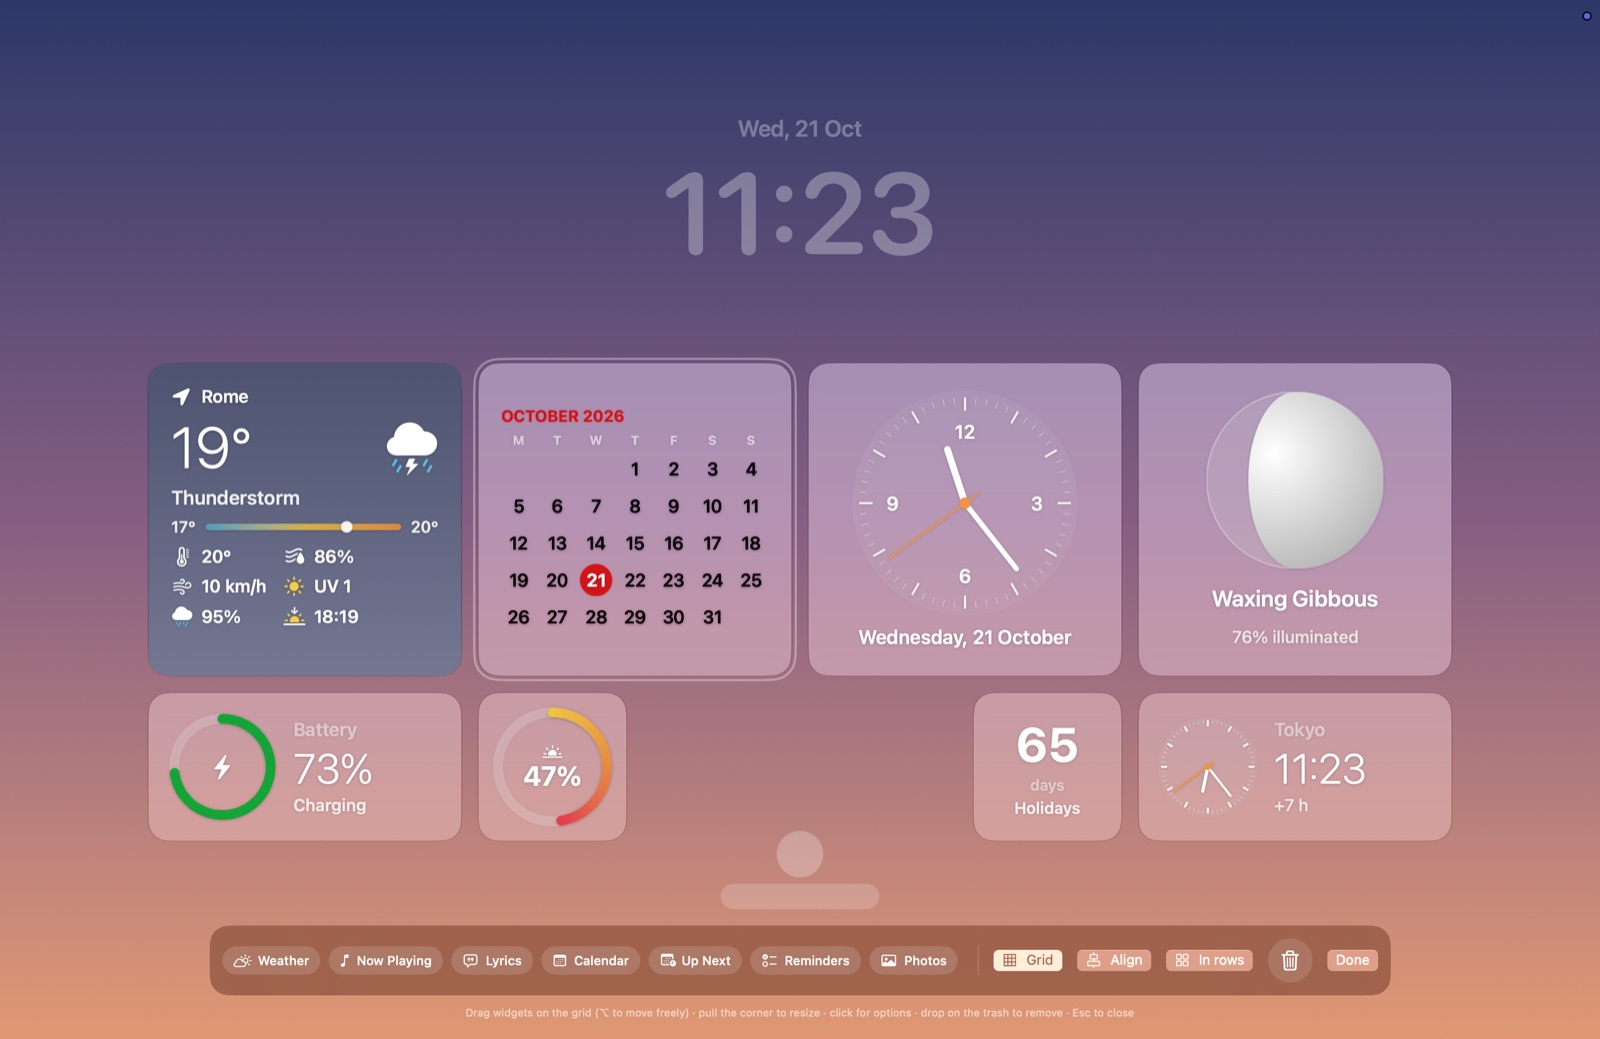
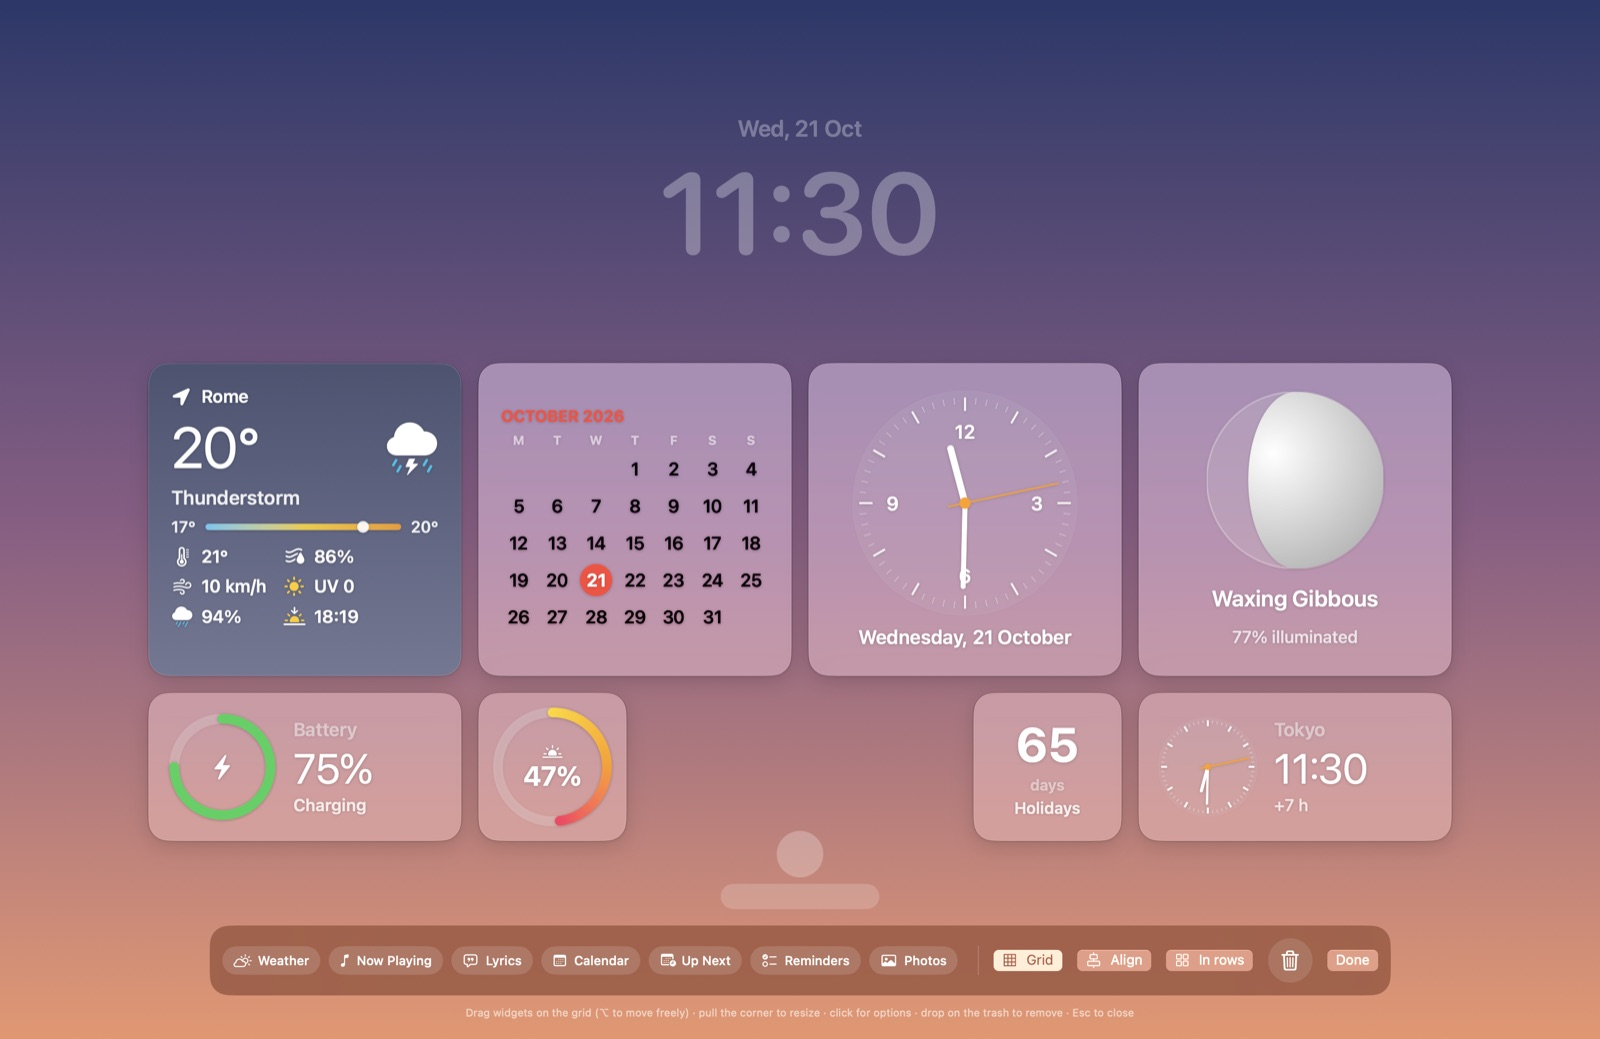
Dettagli macOS dalle skill macos-design e apple-design
Bordo da 0,5 pt e ombre a strati sui widget, colori di sistema Apple
(varianti scure), numeri grandi in peso regular con tracking negativo,
riquadri solidi con Riduci trasparenza, molle senza rimbalzo nello
studio e niente ingrandimento con Riduci movimento.

diff --git a/Sources/Bacheca/Widgets.swift b/Sources/Bacheca/Widgets.swift
@@ -68,6 +68,27 @@ struct PreviewBackdrop: View {
 
 // MARK: - Card chrome
 
+/// Apple system colors, dark-appearance variants.
+enum SystemColor {
+    static let green = Color(red: 0x30 / 255, green: 0xD1 / 255, blue: 0x58 / 255)
+    static let red = Color(red: 0xFF / 255, green: 0x45 / 255, blue: 0x3A / 255)
+    static let orange = Color(red: 0xFF / 255, green: 0x9F / 255, blue: 0x0A / 255)
+    static let yellow = Color(red: 0xFF / 255, green: 0xD6 / 255, blue: 0x0A / 255)
+    static let pink = Color(red: 0xFF / 255, green: 0x37 / 255, blue: 0x5F / 255)
+    static let teal = Color(red: 0x64 / 255, green: 0xD2 / 255, blue: 0xFF / 255)
+}
+
+/// The macOS edge: a 0.5 pt hairline instead of a visible border, and soft layered shadows.
+private struct MacEdge: ViewModifier {
+    let shape: RoundedRectangle
+    func body(content: Content) -> some View {
+        content
+            .overlay(shape.strokeBorder(.white.opacity(0.22), lineWidth: 0.5))
+            .shadow(color: .black.opacity(0.08), radius: 1, y: 1)
+            .shadow(color: .black.opacity(0.14), radius: 10, y: 5)
+    }
+}
+
 struct WidgetCard: View {
     let item: WidgetItem
     @EnvironmentObject var store: ConfigStore
@@ -141,13 +162,12 @@ private struct CardChrome: ViewModifier {
                     LinearGradient(colors: [item.color.color.opacity(0.92), item.color.color],
                                    startPoint: .topLeading, endPoint: .bottomTrailing),
                     in: shape)
-                .overlay(shape.strokeBorder(.white.opacity(0.2), lineWidth: 1))
-                .shadow(color: .black.opacity(0.25), radius: 8, y: 3)
+                .modifier(MacEdge(shape: shape))
         } else if item.hasRetro && item.backdrop == .color {
             content
                 .clipShape(shape)
                 .background(item.backdropColor.color, in: shape)
-                .overlay(shape.strokeBorder(.white.opacity(0.15), lineWidth: 1))
+                .modifier(MacEdge(shape: shape))
         } else if item.hasRetro, item.backdrop == .wallpaper || item.backdrop == .image {
             content
                 .background {
@@ -160,8 +180,7 @@ private struct CardChrome: ViewModifier {
                     }
                 }
                 .clipShape(shape)
-                .overlay(shape.strokeBorder(.white.opacity(0.22), lineWidth: 1))
-                .shadow(color: .black.opacity(0.25), radius: 8, y: 3)
+                .modifier(MacEdge(shape: shape))
         } else {
             content
                 .background {
@@ -171,6 +190,7 @@ private struct CardChrome: ViewModifier {
                 }
                 .clipShape(shape)
                 .modifier(CardBackground(style: style, accent: accent, shape: shape))
+                .modifier(MacEdge(shape: shape))
         }
     }
 }
@@ -179,8 +199,18 @@ private struct CardBackground: ViewModifier {
     let style: CardStyle
     let accent: Color
     let shape: RoundedRectangle
+    @Environment(\.accessibilityReduceTransparency) private var reduceTransparency
 
     func body(content: Content) -> some View {
+        if reduceTransparency && (style == .glass || style == .tinted) {
+            content.background(style == .tinted ? accent.opacity(0.85) : Color(white: 0.17), in: shape)
+        } else {
+            styled(content)
+        }
+    }
+
+    @ViewBuilder
+    private func styled(_ content: Content) -> some View {
         switch style {
         case .glass:
             // A light dark wash under the glass keeps white text legible on bright wallpapers.
@@ -198,7 +228,6 @@ private struct CardBackground: ViewModifier {
             content
                 .background(accent.opacity(0.5), in: shape)
                 .background(.ultraThinMaterial, in: shape)
-                .overlay(shape.strokeBorder(.white.opacity(0.18), lineWidth: 1))
         case .dark:
             content.background(Color.black.opacity(0.45), in: shape)
         case .light:
@@ -267,7 +296,7 @@ private struct WidgetContent: View {
                 Gauge(size: sz, m: m, progress: level, symbol: battery.charging ? "bolt.fill" : "battery.100",
                       value: "\(Int((level * 100).rounded()))%", label: tr("Batteria", "Battery"),
                       detail: battery.charging ? tr("In carica", "Charging") : level < 0.2 ? tr("Batteria scarica", "Low battery") : tr("Con batteria", "On battery"),
-                      tint: AnyShapeStyle(level < 0.2 && !battery.charging ? Color.red : Color.green))
+                      tint: AnyShapeStyle(level < 0.2 && !battery.charging ? SystemColor.red : SystemColor.green))
             } else {
                 Gauge(size: sz, m: m, progress: 1, symbol: "powerplug.fill", value: "—", label: tr("Batteria", "Battery"), detail: tr("Alimentato dalla rete", "On power adapter"))
             }
@@ -276,7 +305,7 @@ private struct WidgetContent: View {
             let left = Int((1 - p) * 24 * 60)
             Gauge(size: sz, m: m, progress: p, symbol: "sun.horizon.fill", value: "\(Int(p * 100))%", label: tr("Giornata", "Day"),
                   detail: tr("Mancano \(left / 60) h \(left % 60) min", "\(left / 60) h \(left % 60) min left"),
-                  tint: AnyShapeStyle(AngularGradient(colors: [.yellow, .orange, .pink], center: .center,
+                  tint: AnyShapeStyle(AngularGradient(colors: [SystemColor.yellow, SystemColor.orange, SystemColor.pink], center: .center,
                                                       startAngle: .degrees(0), endAngle: .degrees(360 * max(0.05, p)))))
         case .moon:
             MoonWidget(size: sz, m: m, now: now)
@@ -305,7 +334,7 @@ private struct WeatherWidget: View {
             case .small:
                 VStack(alignment: .leading, spacing: 2 * s) {
                     cityLabel
-                    Text("\(Int(w.temperature.rounded()))°").font(.system(size: 30 * s, weight: .light))
+                    Text("\(Int(w.temperature.rounded()))°").font(.system(size: 30 * s, weight: .regular)).tracking(-0.02 * 30 * s)
                     Spacer(minLength: 0)
                     Image(systemName: w.symbol).symbolRenderingMode(.multicolor).font(.system(size: 14 * s))
                     Text(highLow(w)).font(.system(size: 10 * s, weight: .semibold)).lineLimit(1).minimumScaleFactor(0.8)
@@ -316,7 +345,7 @@ private struct WeatherWidget: View {
                 HStack {
                     VStack(alignment: .leading, spacing: 2 * s) {
                         cityLabel
-                        Text("\(Int(w.temperature.rounded()))°").font(.system(size: 32 * s, weight: .light))
+                        Text("\(Int(w.temperature.rounded()))°").font(.system(size: 32 * s, weight: .regular)).tracking(-0.02 * 32 * s)
                         Text(w.label).font(.system(size: 10.5 * s, weight: .semibold)).lineLimit(1)
                         Text(highLow(w)).font(.system(size: 10.5 * s, weight: .semibold)).foregroundStyle(.secondary).lineLimit(1)
                     }
@@ -372,7 +401,7 @@ private struct WeatherWidget: View {
         VStack(alignment: .leading, spacing: 3 * m.s) {
             cityLabel
             HStack(alignment: .top) {
-                Text("\(Int(w.temperature.rounded()))°").font(.system(size: temp * m.s, weight: .light))
+                Text("\(Int(w.temperature.rounded()))°").font(.system(size: temp * m.s, weight: .regular)).tracking(-0.02 * temp * m.s)
                 Spacer(minLength: 0)
                 Image(systemName: w.symbol).symbolRenderingMode(.multicolor).font(.system(size: 28 * m.s)).padding(.top, 4 * m.s)
             }
@@ -427,7 +456,7 @@ private struct TempRange: View {
             GeometryReader { geo in
                 let p = max > min ? (current - min) / (max - min) : 0.5
                 ZStack(alignment: .leading) {
-                    Capsule().fill(LinearGradient(colors: [.cyan.opacity(0.9), .yellow.opacity(0.9), .orange], startPoint: .leading, endPoint: .trailing))
+                    Capsule().fill(LinearGradient(colors: [SystemColor.teal, SystemColor.yellow, SystemColor.orange], startPoint: .leading, endPoint: .trailing))
                         .frame(height: 4 * s)
                     Circle().fill(.white).frame(width: 7 * s, height: 7 * s)
                         .offset(x: (geo.size.width - 7 * s) * Swift.min(1, Swift.max(0, p)))
@@ -477,7 +506,7 @@ private struct CalendarWidget: View {
         case .small:
             VStack(alignment: .leading, spacing: 0) {
                 weekday
-                Text(now, format: .dateTime.day()).font(.system(size: 40 * s, weight: .light))
+                Text(now, format: .dateTime.day()).font(.system(size: 40 * s, weight: .regular)).tracking(-0.02 * 40 * s)
                 Spacer(minLength: 0)
                 Text(events.first.map { "\($0.start.formatted(hm)) \($0.title)" } ?? tr("Nessun evento", "No events"))
                     .font(.system(size: 10 * s, weight: .semibold)).lineLimit(2).opacity(0.8)
@@ -488,8 +517,8 @@ private struct CalendarWidget: View {
             HStack(spacing: 8 * s) {
                 VStack(alignment: .leading, spacing: 0) {
                     Text(now, format: .dateTime.weekday(.abbreviated)).textCase(.uppercase)
-                        .font(.system(size: 10 * s, weight: .bold)).foregroundStyle(.red)
-                    Text(now, format: .dateTime.day()).font(.system(size: 34 * s, weight: .light))
+                        .font(.system(size: 10 * s, weight: .bold)).foregroundStyle(SystemColor.red)
+                    Text(now, format: .dateTime.day()).font(.system(size: 34 * s, weight: .regular)).tracking(-0.02 * 34 * s)
                         .lineLimit(1).minimumScaleFactor(0.6)
                 }
                 .fixedSize()
@@ -502,7 +531,7 @@ private struct CalendarWidget: View {
             HStack(alignment: .top, spacing: 16 * s) {
                 VStack(alignment: .leading, spacing: 0) {
                     weekday
-                    Text(now, format: .dateTime.day()).font(.system(size: 54 * s, weight: .light))
+                    Text(now, format: .dateTime.day()).font(.system(size: 54 * s, weight: .regular)).tracking(-0.02 * 54 * s)
                     Text(now, format: .dateTime.month(.wide).year()).font(.system(size: 11 * s, weight: .semibold)).opacity(0.75)
                     Spacer(minLength: 0)
                     if let e = events.first {
@@ -519,7 +548,7 @@ private struct CalendarWidget: View {
 
     private var weekday: some View {
         Text(now, format: .dateTime.weekday(.wide)).textCase(.uppercase)
-            .font(.system(size: 10 * m.s, weight: .bold)).foregroundStyle(.red)
+            .font(.system(size: 10 * m.s, weight: .bold)).foregroundStyle(SystemColor.red)
     }
 }
 
@@ -538,7 +567,7 @@ private struct WeekStrip: View {
                     Text("\(cal.component(.day, from: pair.1))")
                         .font(.system(size: 10 * s, weight: today ? .bold : .medium))
                         .frame(width: 16 * s, height: 16 * s)
-                        .background(today ? Circle().fill(.red) : nil)
+                        .background(today ? Circle().fill(SystemColor.red) : nil)
                         .foregroundStyle(today ? .white : .primary)
                 }
             }
@@ -563,7 +592,7 @@ private struct MonthGrid: View {
 
         VStack(alignment: .leading, spacing: 4 * s) {
             Text(now, format: .dateTime.month(.wide).year())
-                .font(.system(size: 10 * s, weight: .bold)).textCase(.uppercase).foregroundStyle(.red)
+                .font(.system(size: 10 * s, weight: .bold)).textCase(.uppercase).foregroundStyle(SystemColor.red)
             LazyVGrid(columns: columns, spacing: 3 * s) {
                 ForEach(Array(weekdayInitials(cal).enumerated()), id: \.offset) { _, d in
                     Text(d).font(.system(size: 8 * s, weight: .bold)).opacity(0.55)
@@ -573,7 +602,7 @@ private struct MonthGrid: View {
                         Text("\(day)")
                             .font(.system(size: cell * 0.56 * s, weight: day == today ? .bold : .medium))
                             .frame(width: cell * s, height: cell * s)
-                            .background(day == today ? Circle().fill(.red) : nil)
+                            .background(day == today ? Circle().fill(SystemColor.red) : nil)
                             .foregroundStyle(day == today ? .white : .primary)
                     } else {
                         Color.clear.frame(height: cell * s)
@@ -602,7 +631,7 @@ private struct EventsWidget: View {
                 Text(tr("Niente in agenda", "Nothing scheduled")).font(.system(size: 14 * s, weight: .bold))
             } else if size == .small {
                 let e = events[0]
-                Text(e.start.formatted(hm)).font(.system(size: 22 * s, weight: .light))
+                Text(e.start.formatted(hm)).font(.system(size: 22 * s, weight: .regular)).tracking(-0.02 * 22 * s)
                 Text(e.title).font(.system(size: 13 * s, weight: .bold)).lineLimit(3)
             } else {
                 let limit = size == .medium ? 1 : 3
@@ -610,7 +639,7 @@ private struct EventsWidget: View {
                 LazyVGrid(columns: Array(repeating: GridItem(.flexible(), alignment: .topLeading), count: columns), alignment: .leading, spacing: 8 * s) {
                     ForEach(Array(events.prefix(limit).enumerated()), id: \.offset) { _, e in
                         HStack(alignment: .top, spacing: 7 * s) {
-                            Capsule().fill(.red).frame(width: 3 * s)
+                            Capsule().fill(SystemColor.red).frame(width: 3 * s)
                             VStack(alignment: .leading, spacing: 1) {
                                 Text(e.title).font(.system(size: 13.5 * s, weight: .bold)).lineLimit(1)
                                 Text(eventTime(e)).font(.system(size: 10.5 * s, weight: .medium)).opacity(0.75).lineLimit(1)
@@ -642,7 +671,7 @@ private struct RemindersWidget: View {
             VStack(alignment: .leading, spacing: 2 * s) {
                 Image(systemName: "checklist").font(.system(size: 16 * s, weight: .semibold))
                 Spacer(minLength: 0)
-                Text(access ? "\(reminders.count)" : "—").font(.system(size: 30 * s, weight: .light))
+                Text(access ? "\(reminders.count)" : "—").font(.system(size: 30 * s, weight: .regular)).tracking(-0.02 * 30 * s)
                 Text(access ? (reminders.first?.title ?? tr("Tutto fatto", "All done")) : tr("Consenti l'accesso", "Allow access"))
                     .font(.system(size: 10.5 * s, weight: .semibold)).lineLimit(2).opacity(0.85)
             }
@@ -665,7 +694,7 @@ private struct RemindersWidget: View {
                                 Image(systemName: "circle").font(.system(size: 9 * s, weight: .bold)).opacity(0.7)
                                 Text(r.title).lineLimit(1)
                                 if let due = r.due, due < now {
-                                    Image(systemName: "exclamationmark").font(.system(size: 9 * s, weight: .heavy)).foregroundStyle(.orange)
+                                    Image(systemName: "exclamationmark").font(.system(size: 9 * s, weight: .heavy)).foregroundStyle(SystemColor.orange)
                                 }
                             }
                             .font(.system(size: 12.5 * s, weight: .semibold))
@@ -721,7 +750,7 @@ private struct Gauge: View {
                 .frame(width: 60 * s, height: 60 * s)
                 VStack(alignment: .leading, spacing: 2 * s) {
                     Text(label).font(.system(size: 11.5 * s, weight: .semibold)).foregroundStyle(.secondary)
-                    Text(value).font(.system(size: (size == .wide ? 40 : 26) * s, weight: .light))
+                    Text(value).font(.system(size: (size == .wide ? 40 : 26) * s, weight: .regular)).tracking(-0.02 * (size == .wide ? 40 : 26) * s)
                     Text(detail).font(.system(size: 10.5 * s, weight: .semibold)).opacity(0.8).lineLimit(1).minimumScaleFactor(0.75)
                     if size == .wide {
                         LinearBar(progress: progress, s: s, tint: tint).padding(.top, 10 * s)
@@ -810,7 +839,7 @@ private struct CountdownWidget: View {
         case .large:
             VStack(spacing: 4 * s) {
                 Image(systemName: "flag.checkered").font(.system(size: 18 * s))
-                Text("\(abs(days))").font(.system(size: 64 * s, weight: .light))
+                Text("\(abs(days))").font(.system(size: 64 * s, weight: .regular)).tracking(-0.02 * 64 * s)
                 Text(unit).font(.system(size: 12 * s, weight: .semibold)).foregroundStyle(.secondary)
                 Text(label).font(.system(size: 15 * s, weight: .semibold)).lineLimit(1)
                 Text(dateText).font(.system(size: 10.5 * s, weight: .medium)).opacity(0.7)
@@ -826,7 +855,7 @@ private struct CountdownWidget: View {
                 }
                 Spacer(minLength: 0)
                 HStack(alignment: .firstTextBaseline, spacing: 4 * s) {
-                    Text("\(abs(days))").font(.system(size: (size == .wide ? 80 : 40) * s, weight: .light))
+                    Text("\(abs(days))").font(.system(size: (size == .wide ? 80 : 40) * s, weight: .regular)).tracking(-0.02 * (size == .wide ? 80 : 40) * s)
                     Text(unit).font(.system(size: 12 * s, weight: .semibold)).opacity(0.75)
                 }
             }
@@ -1052,7 +1081,7 @@ private struct ClockWidget: View {
                         .frame(width: (size == .wide ? 160 : 62) * s, height: (size == .wide ? 160 : 62) * s)
                     VStack(alignment: .leading, spacing: 2 * s) {
                         Text(title ?? tr("Ora locale", "Local time")).font(.system(size: 11.5 * s, weight: .semibold)).foregroundStyle(.secondary).lineLimit(1)
-                        Text(ctx.date, format: digital).font(.system(size: (size == .wide ? 52 : 26) * s, weight: .light))
+                        Text(ctx.date, format: digital).font(.system(size: (size == .wide ? 52 : 26) * s, weight: .regular)).tracking(-0.02 * (size == .wide ? 52 : 26) * s)
                             .lineLimit(1).minimumScaleFactor(0.6)
                         Text(title == nil ? ctx.date.formatted(.dateTime.weekday(.wide).day().month(.wide)) : offsetText(timeZone, now: ctx.date))
                             .font(.system(size: 10.5 * s, weight: .medium)).opacity(0.75).lineLimit(1)
@@ -1112,10 +1141,10 @@ private struct ClockFace: View {
                 var sp = Path()
                 sp.move(to: point(sec / 60 * 2 * .pi + .pi, r * 0.15))
                 sp.addLine(to: point(sec / 60 * 2 * .pi, r * 0.84))
-                g.stroke(sp, with: .color(.orange), style: StrokeStyle(lineWidth: 1.5, lineCap: .round))
+                g.stroke(sp, with: .color(SystemColor.orange), style: StrokeStyle(lineWidth: 1.5, lineCap: .round))
             }
             let dot = max(3, r * 0.05)
-            g.fill(Path(ellipseIn: CGRect(x: c.x - dot, y: c.y - dot, width: dot * 2, height: dot * 2)), with: .color(seconds ? .orange : .white))
+            g.fill(Path(ellipseIn: CGRect(x: c.x - dot, y: c.y - dot, width: dot * 2, height: dot * 2)), with: .color(seconds ? SystemColor.orange : .white))
         }
     }
 }

diff --git a/Sources/Bacheca/Studio.swift b/Sources/Bacheca/Studio.swift
@@ -145,6 +145,10 @@ private struct DraggableCard: View {
     @State private var drag: CGSize = .zero
     @State private var dragging = false
     @State private var hover = false
+    @Environment(\.accessibilityReduceMotion) private var reduceMotion
+
+    /// Critically damped spring: settles without overshoot, as Apple recommends for repositioning.
+    static let settle = Animation.spring(response: 0.3, dampingFraction: 1)
 
     var body: some View {
         let m = Metrics(s: store.config.scale)
@@ -156,7 +160,7 @@ private struct DraggableCard: View {
                     .strokeBorder(.white.opacity(selected ? 0.9 : hover ? 0.35 : 0), lineWidth: 2)
                     .padding(-5)
             }
-            .scaleEffect(dragging ? 1.03 : 1)
+            .scaleEffect(dragging && !reduceMotion ? 1.03 : 1)
             .shadow(color: .black.opacity(dragging ? 0.4 : 0), radius: 18, y: 8)
             .opacity(dragging && edit.overTrash ? 0.45 : 1)
             .contentShape(Rectangle())
@@ -183,7 +187,7 @@ private struct DraggableCard: View {
                         }
                         let next = CGSize(width: target.x - start.x, height: target.y - start.y)
                         if next != drag {
-                            withAnimation(free ? nil : .snappy(duration: 0.18)) { drag = next }
+                            withAnimation(free || reduceMotion ? nil : Self.settle) { drag = next }
                         }
                         edit.overTrash = edit.trashFrame.contains(v.location)
                     }
@@ -246,6 +250,7 @@ private struct ResizeHandle: View {
     @ObservedObject var edit: EditState
     @EnvironmentObject var store: ConfigStore
     @State private var start: (size: CGSize, topLeft: CGPoint)?
+    @Environment(\.accessibilityReduceMotion) private var reduceMotion
 
     var body: some View {
         let m = Metrics(s: store.config.scale)
@@ -279,7 +284,7 @@ private struct ResizeHandle: View {
                             // Keeps the grown card inside the grid when it would spill past an edge.
                             center = LayoutGrid(m: m, screen: screen).snap(center: center, size: best)
                         }
-                        withAnimation(.snappy(duration: 0.2)) {
+                        withAnimation(reduceMotion ? nil : .spring(response: 0.3, dampingFraction: 1)) {
                             store.config.items[i].size = best
                             store.config.items[i].x = Double(center.x / screen.width)
                             store.config.items[i].y = Double(center.y / screen.height)
